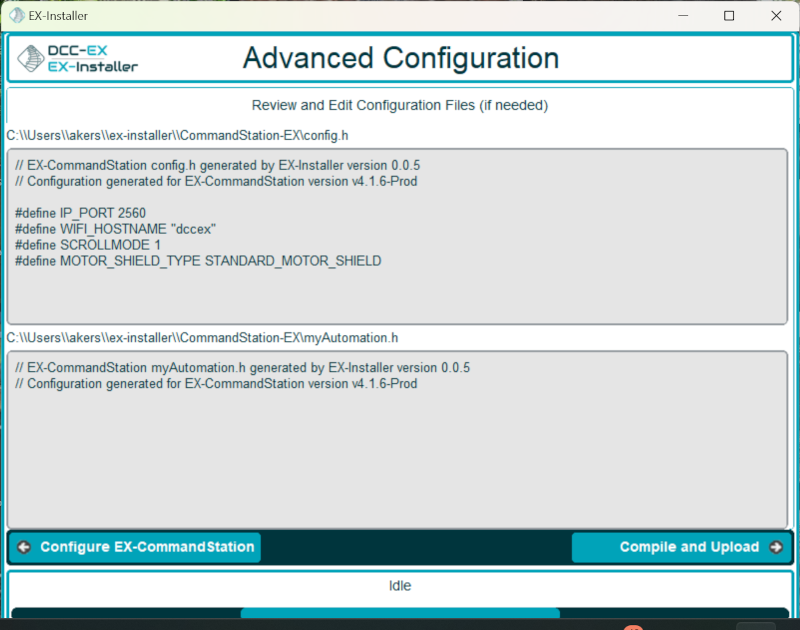
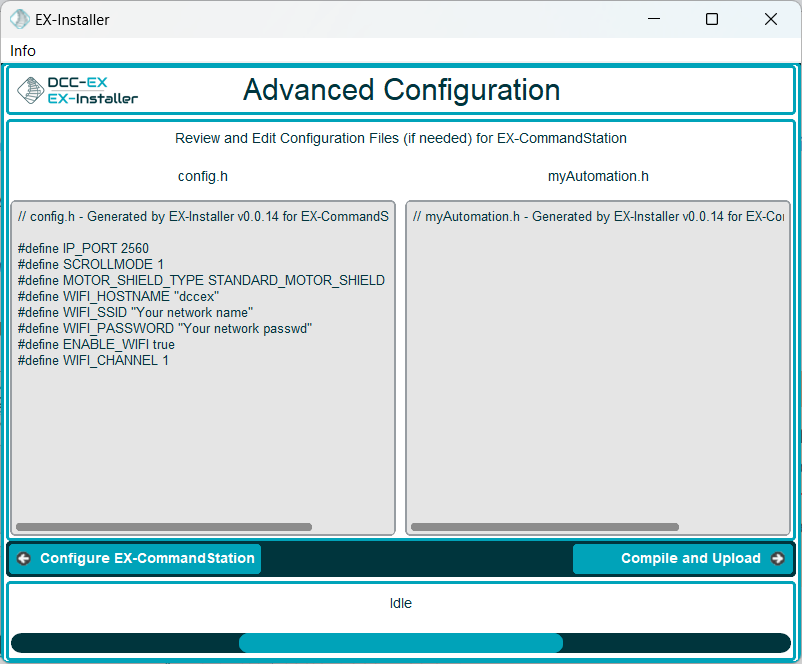
Update for 0.0.14

diff --git a/docs/ex-installer/installing.rst b/docs/ex-installer/installing.rst
@@ -66,6 +66,10 @@ Download and Run EX-Installer
   * Open a terminal window and navigate to that folder
   * **Run the installer with** the following command: ``./EX-Installer-Linux64`` |BR| |BR|
 
+.. warning:: 
+   
+   EX-Installer creates then maintains a folder (<home>\\ex-installer) to hold the information it needs. :dcc-ex-red-bold:`Do not directly modify anything in this folder` as it may be overwritten or deleted by the installer at any time.
+
 You will be presented with the following screen...
 
 |force-break|
@@ -399,7 +403,7 @@ Enabling this option will enable the TrackManager Config tab.
 
    EX-Installer - Configure Track Modes
 
-|
+|force-break|
 
 The tracks (channels) on your motor driver can be configured in a variety of different ways.
 
@@ -417,7 +421,7 @@ Advanced Config
 ~~~~~~~~~~~~~~~
 
 .. figure:: /_static/images/ex-installer/ex_cs_configure_advanced_config.png
-   :alt: EX-Installer - EX-CommandStation - Configure Wifi - Station Mode
+   :alt: EX-Installer - EX-CommandStation - Advanced Config
    :scale: 60%
    :align: center
 
@@ -434,11 +438,6 @@ If you have selected *Advanced Config*, to proceed, click the :guilabel:`Advance
 iii) 'Advanced Configuration' screen
 ^^^^^^^^^^^^^^^^^^^^^^^^^^^^^^^^^^^^
 
-.. warning:: 
-   :class: warning-float-right
-   
-   EX-Installer creates then maintains a folder (<home>\\ex-installer) to hold the information it needs. :dcc-ex-red-bold:`Do not directly modify anything in this folder` as it may be overwritten or deleted by the installer at any time.
-
 .. figure:: /_static/images/ex-installer/ex_cs_advanced_config.png
    :alt: EX-Installer - EX-CommandStation - Configure Wifi - Station Mode
    :scale: 40%
@@ -446,9 +445,18 @@ iii) 'Advanced Configuration' screen
 
    EX-Installer - Advanced Config Screen
 
-Only if you have selected ``Advanced Config`` on the previous screen will you be presented with this screen. 
+.. figure:: /_static/images/ex-installer/ex_cs_advanced_config_multifiles.png
+   :alt: EX-Installer - EX-CommandStation - Advanced Config with multiple files
+   :scale: 40%
+   :align: center
 
-On this screen you can edit the main configuration files.
+   EX-Installer - Advance Config - more than two files
+
+|force-break|
+
+If you have selected ``Advanced Config`` on the previous screen, or if you chose to copy your existing configuration files, you will be presented with this screen. 
+
+On this screen you can edit the main configuration files. If you have more than two files to edit, they will be separated into tabs as shown in the second figure above.
 
 To proceed, click the :guilabel:`Compile and Load` button. See *iv* below.
 
@@ -471,6 +479,36 @@ Results are shown in the lower half of the screen.
 If there are **no errors**, you can proceed to :doc:`testing your setup </ex-installer/testing>`.
 
 If there **are errors** or you are having difficulties check the :doc:`/support/ex-cs-troubleshooting` page for assistance.
+
+|force-break|
+
+Backup
+~~~~~~
+
+After loading the software onto your device, you can optionally copy the generated configuration files to a folder of your choice as a backup by clicking the :guilabel:`Backup config files` button.
+
+.. figure:: /_static/images/ex-installer/ex_cs_backup.png
+   :alt: EX-Installer - Backup
+   :scale: 40%
+   :align: center
+
+   EX-Installer - Backup Option
+
+You will be prompted to select a folder, and if the chosen folder already contains config files, you can overwrite these, or you can select an alternative location.
+
+.. figure:: /_static/images/ex-installer/ex_cs_backup_select.png
+   :alt: EX-Installer - Backup select folder
+   :scale: 40%
+   :align: left
+
+   EX-Installer - Select backup folder
+
+.. figure:: /_static/images/ex-installer/ex_cs_backup_overwrite.png
+   :alt: EX-Installer - Overwrite existing files
+   :scale: 40%
+   :align: center
+
+   EX-Installer - Overwrite existing backup
 
 |force-break|
 

diff --git a/docs/ex-commandstation/get-started/installer.rst b/docs/ex-commandstation/get-started/installer.rst
@@ -219,7 +219,7 @@ If you have selected ``Configure options on the next screen``, to proceed, click
 'Install EX-CommandStation' - Configuration screen
 --------------------------------------------------
 
-.. figure:: /_static/images/ex-installer/ex_cs_configure.png
+.. figure:: /_static/images/ex-installer/ex_cs_configure-general.png
    :alt: EX-Installer - EX-CommandStation Configuration
    :scale: 40%
    :align: left
